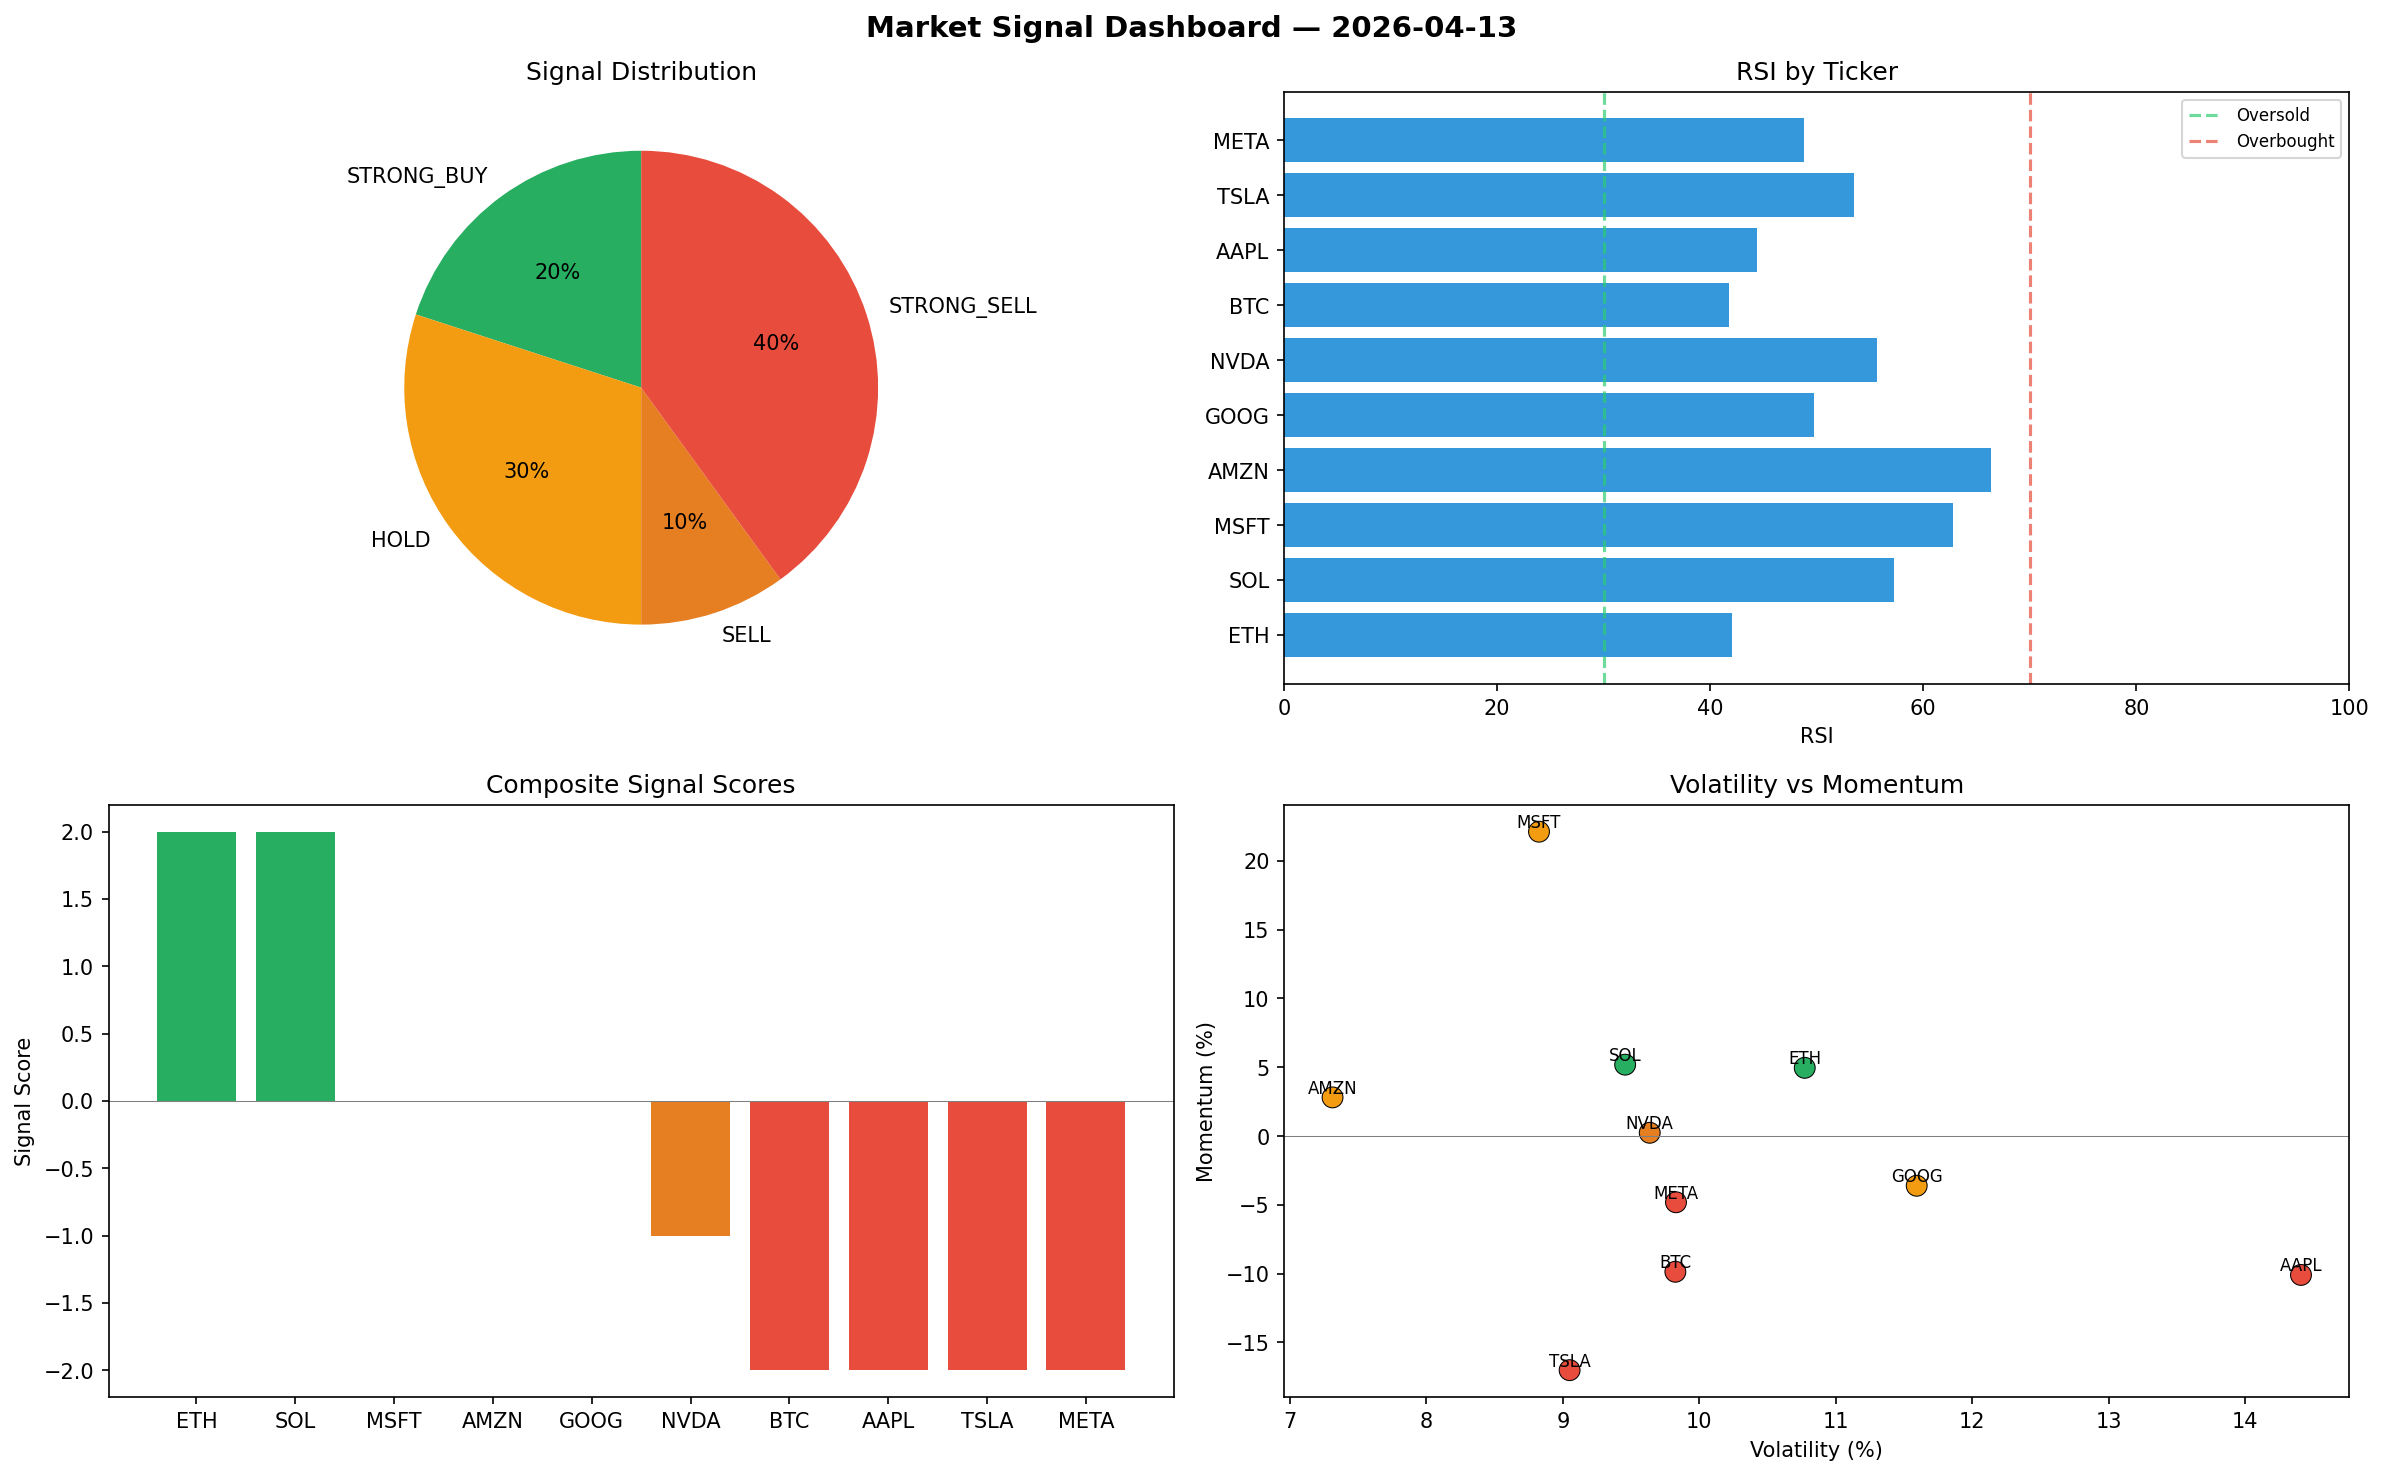
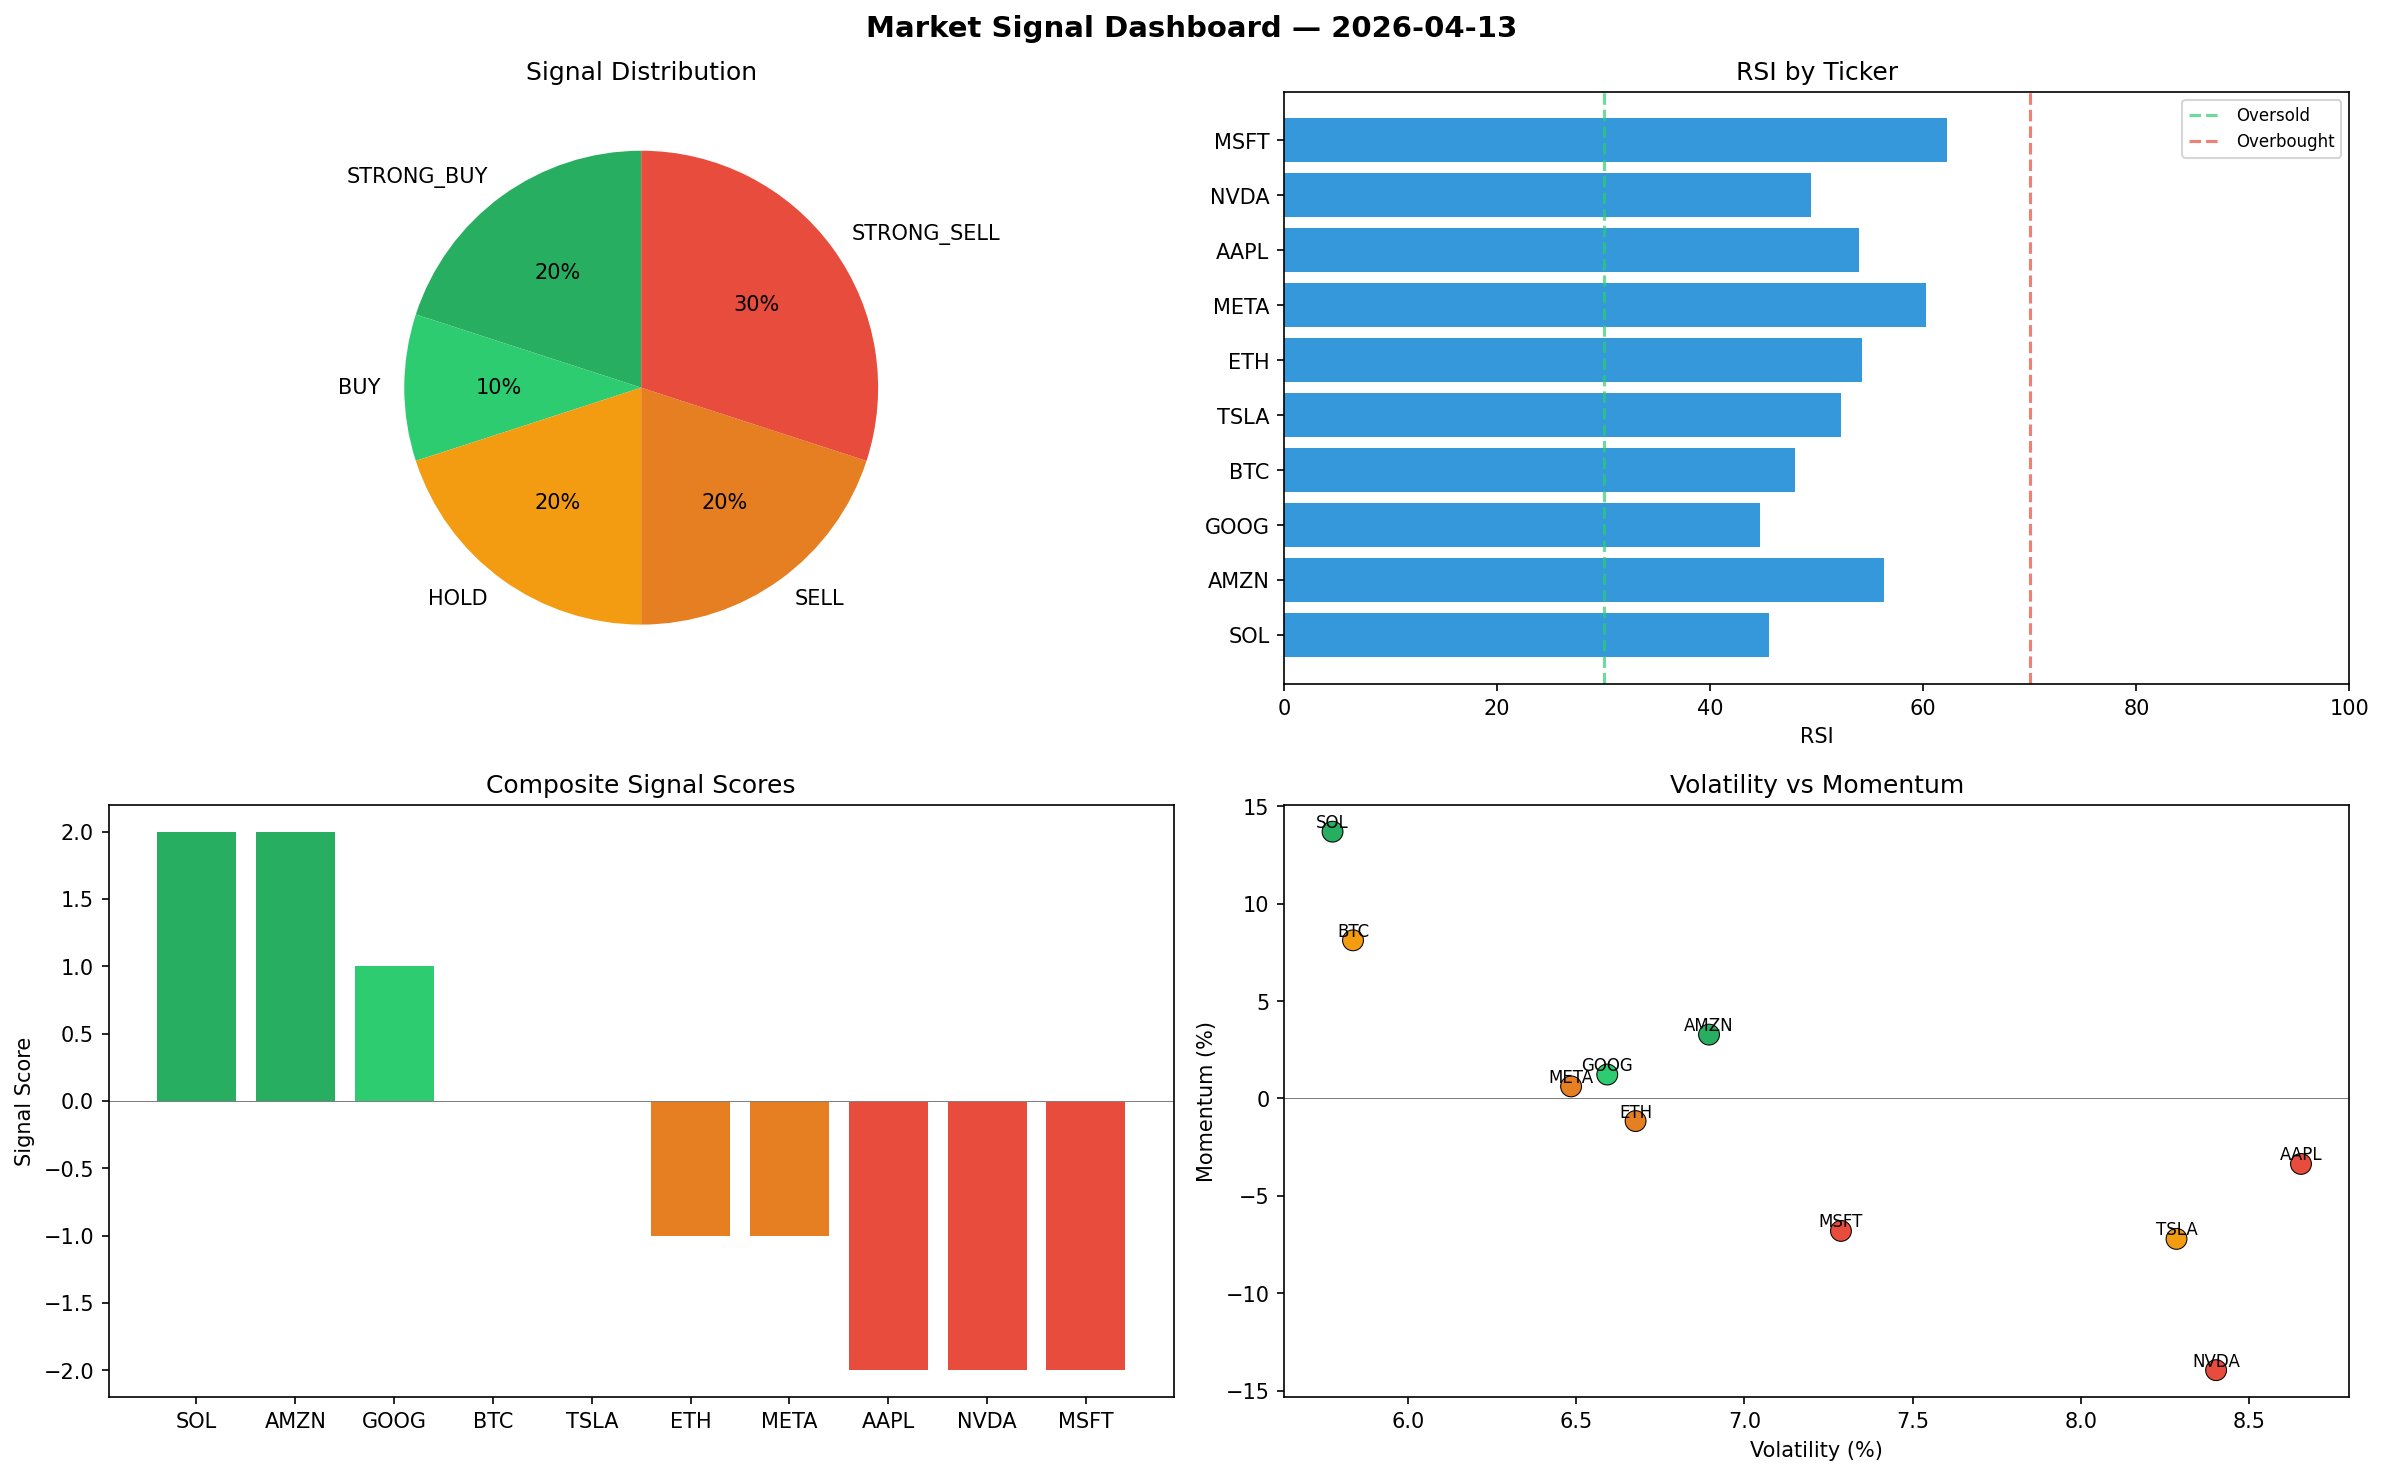
automated-bots: market signals 2026-04-13T15:56

diff --git a/logs/2026-04-13.md b/logs/2026-04-13.md
@@ -1,6 +1,6 @@
 # Market Signal Report — 2026-04-13
 
-**Run ID:** `14427852fd` | **Buy:** 2 | **Sell:** 5 | **Hold:** 3
+**Run ID:** `d848f0ab97` | **Buy:** 3 | **Sell:** 5 | **Hold:** 2
 
 ![Dashboard](2026-04-13_dashboard.png)
 
@@ -8,28 +8,28 @@
 
 | Ticker | Price | Signal | Score | RSI | Momentum | Confidence |
 |--------|-------|--------|-------|-----|----------|------------|
-| ETH | $1131.81 | **STRONG_BUY** | 2 | 42.01 | 0.0496 | 0.5 |
-| SOL | $2083.93 | **STRONG_BUY** | 2 | 57.26 | 0.0519 | 0.5 |
-| MSFT | $3433.02 | **HOLD** | 0 | 62.75 | 0.2212 | 0.0 |
-| AMZN | $3756.69 | **HOLD** | 0 | 66.4 | 0.0281 | 0.0 |
-| GOOG | $2322.78 | **HOLD** | 0 | 49.76 | -0.0361 | 0.0 |
-| NVDA | $611.93 | **SELL** | -1 | 55.65 | 0.0024 | 0.25 |
-| BTC | $438.56 | **STRONG_SELL** | -2 | 41.75 | -0.0986 | 0.5 |
-| AAPL | $3985.91 | **STRONG_SELL** | -2 | 44.38 | -0.1009 | 0.5 |
-| TSLA | $617.71 | **STRONG_SELL** | -2 | 53.5 | -0.1701 | 0.5 |
-| META | $865.51 | **STRONG_SELL** | -2 | 48.83 | -0.0481 | 0.5 |
+| SOL | $390.07 | **STRONG_BUY** | 2 | 45.5 | 0.137 | 0.5 |
+| AMZN | $3220.05 | **STRONG_BUY** | 2 | 56.33 | 0.0328 | 0.5 |
+| GOOG | $3270.27 | **BUY** | 1 | 44.69 | 0.0123 | 0.25 |
+| BTC | $3982.12 | **HOLD** | 0 | 47.97 | 0.0812 | 0.0 |
+| TSLA | $3733.69 | **HOLD** | 0 | 52.24 | -0.0721 | 0.0 |
+| ETH | $312.86 | **SELL** | -1 | 54.27 | -0.0116 | 0.25 |
+| META | $3205.42 | **SELL** | -1 | 60.28 | 0.0062 | 0.25 |
+| AAPL | $4447.25 | **STRONG_SELL** | -2 | 53.92 | -0.0336 | 0.5 |
+| NVDA | $4123.71 | **STRONG_SELL** | -2 | 49.49 | -0.1395 | 0.5 |
+| MSFT | $3794.33 | **STRONG_SELL** | -2 | 62.25 | -0.068 | 0.5 |
 
 ## Delta vs Yesterday
 
 | Ticker | Today | Yesterday | Price Change | Signal Changed |
 |--------|-------|-----------|-------------|----------------|
-| ETH | STRONG_BUY | STRONG_SELL | 📉 -67.6% | ⚠ YES |
-| SOL | STRONG_BUY | HOLD | 📈 292.34% | ⚠ YES |
-| MSFT | HOLD | STRONG_SELL | 📈 250.41% | ⚠ YES |
-| AMZN | HOLD | STRONG_BUY | 📈 27.04% | ⚠ YES |
-| GOOG | HOLD | BUY | 📉 -40.26% | ⚠ YES |
-| NVDA | SELL | BUY | 📉 -41.41% | ⚠ YES |
-| BTC | STRONG_SELL | STRONG_SELL | 📉 -77.99% | — |
-| AAPL | STRONG_SELL | HOLD | 📉 -2.5% | ⚠ YES |
-| TSLA | STRONG_SELL | BUY | 📉 -73.04% | ⚠ YES |
-| META | STRONG_SELL | STRONG_BUY | 📉 -58.91% | ⚠ YES |
+| SOL | STRONG_BUY | HOLD | 📉 -26.56% | ⚠ YES |
+| AMZN | STRONG_BUY | STRONG_BUY | 📈 8.89% | — |
+| GOOG | BUY | BUY | 📉 -15.89% | — |
+| BTC | HOLD | STRONG_SELL | 📈 99.88% | ⚠ YES |
+| TSLA | HOLD | BUY | 📈 62.93% | ⚠ YES |
+| ETH | SELL | STRONG_SELL | 📉 -91.04% | ⚠ YES |
+| META | SELL | STRONG_BUY | 📈 52.18% | ⚠ YES |
+| AAPL | STRONG_SELL | HOLD | 📈 8.79% | ⚠ YES |
+| NVDA | STRONG_SELL | BUY | 📈 294.8% | ⚠ YES |
+| MSFT | STRONG_SELL | STRONG_SELL | 📈 287.29% | — |
